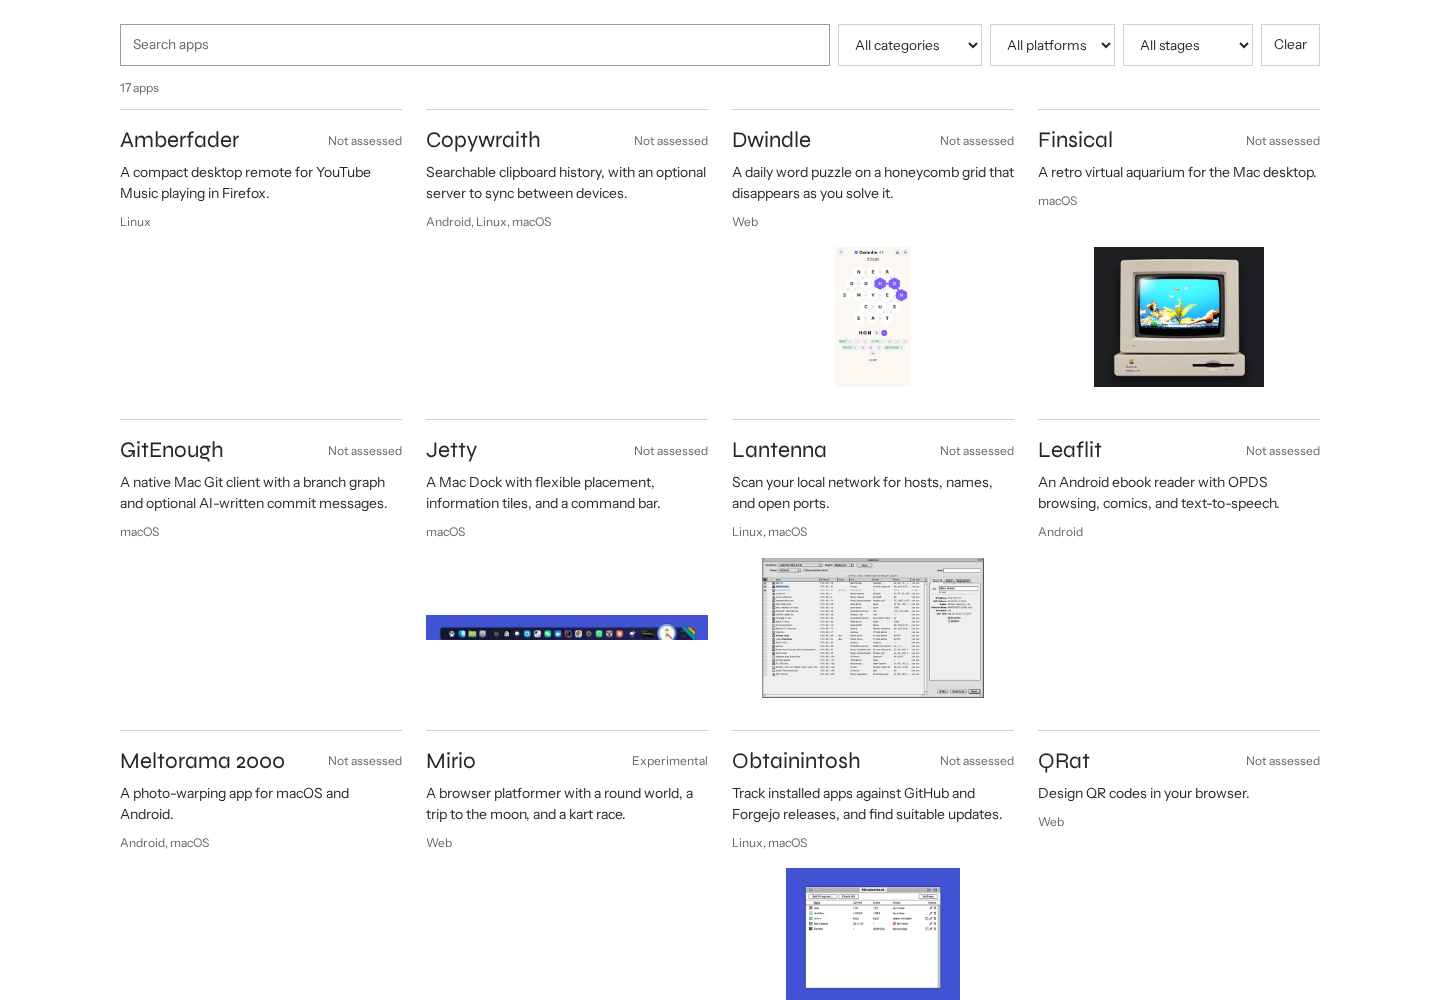
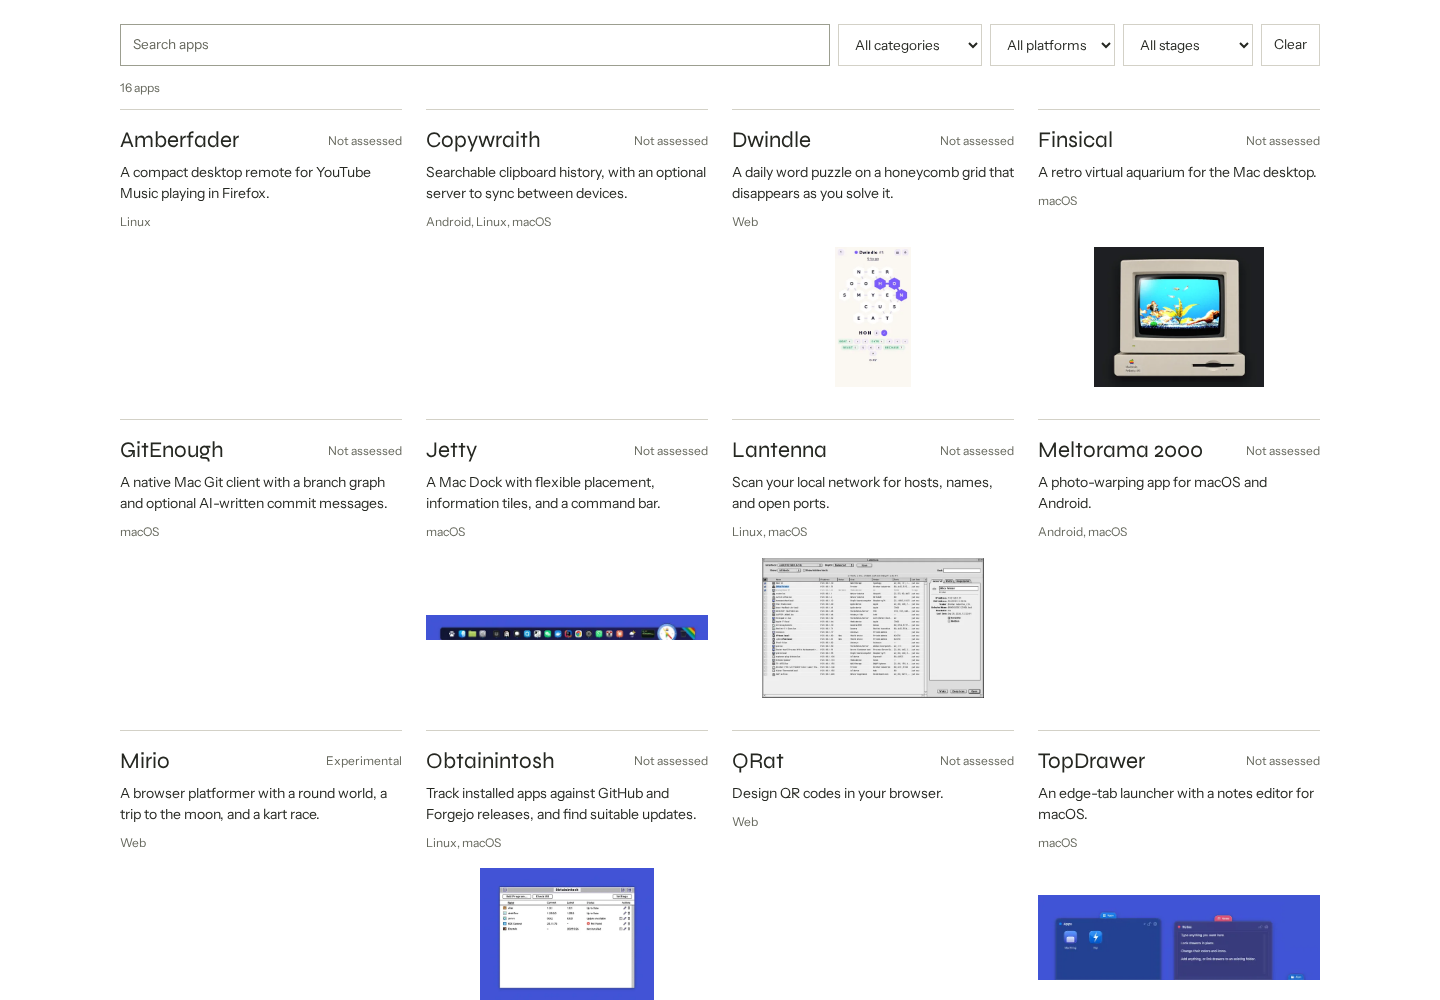
Remove Leaflit from the public catalogue
Keep the private app out of the generated directory.
Update the starter count, browser assertions and preview.

diff --git a/README.md b/README.md
@@ -26,7 +26,7 @@ npm run preview
 
 Open <http://127.0.0.1:4173>. The generated site is in `dist/`.
 
-The starter catalogue contains 17 apps, using descriptions and screenshots from their
+The starter catalogue contains 16 apps, using descriptions and screenshots from their
 repos. Maturity is left unassessed unless the source explicitly describes it. Edit
 `catalogue/*.json` to assess them or change the selection. Screenshot snapshots are
 credited in [`catalogue/assets/README.md`](catalogue/assets/README.md).

diff --git a/CHANGELOG.md b/CHANGELOG.md
@@ -5,4 +5,4 @@
 - Generate a static app directory from repo-local and central JSON manifests.
 - Support monorepos, web-only apps, explicit maturity, and platform inference.
 - Bundle local media; render detail pages, search, and category/platform filters.
-- Include a 17-app starter catalogue, CLI, Compose deployment, and CI checks.
+- Include a 16-app starter catalogue, CLI, Compose deployment, and CI checks.
